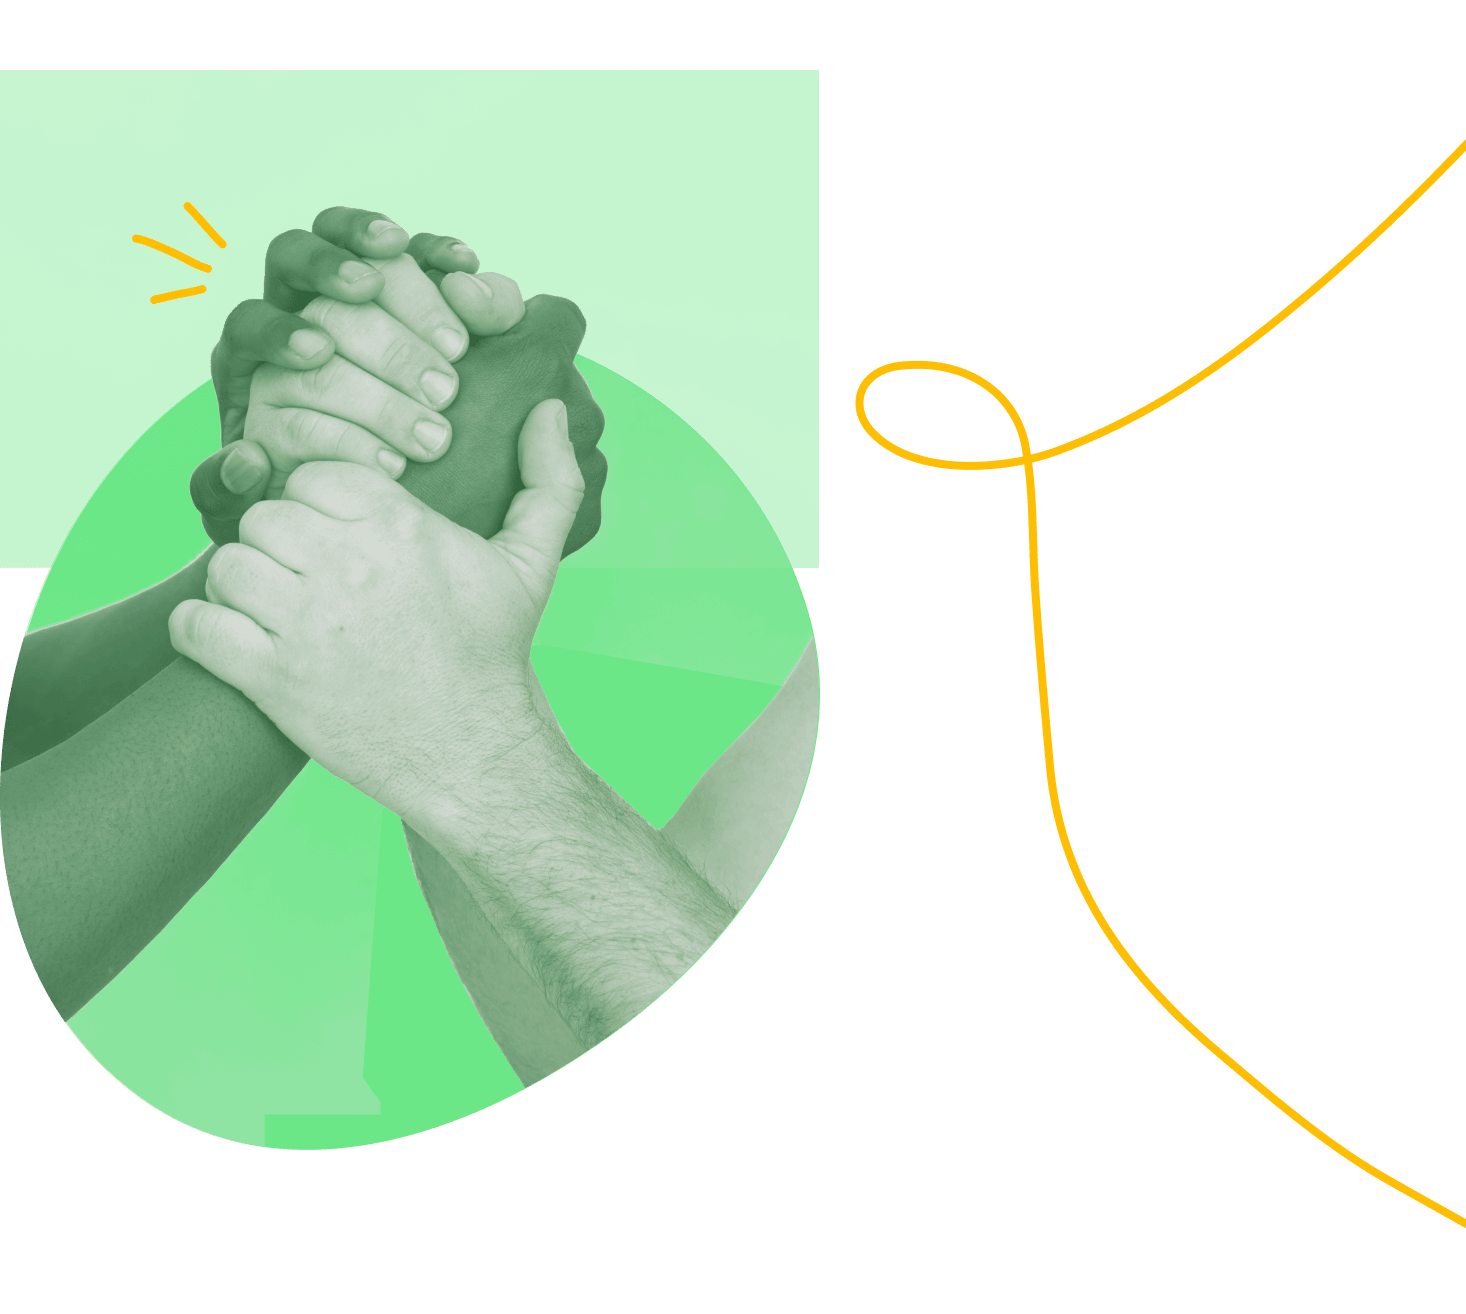
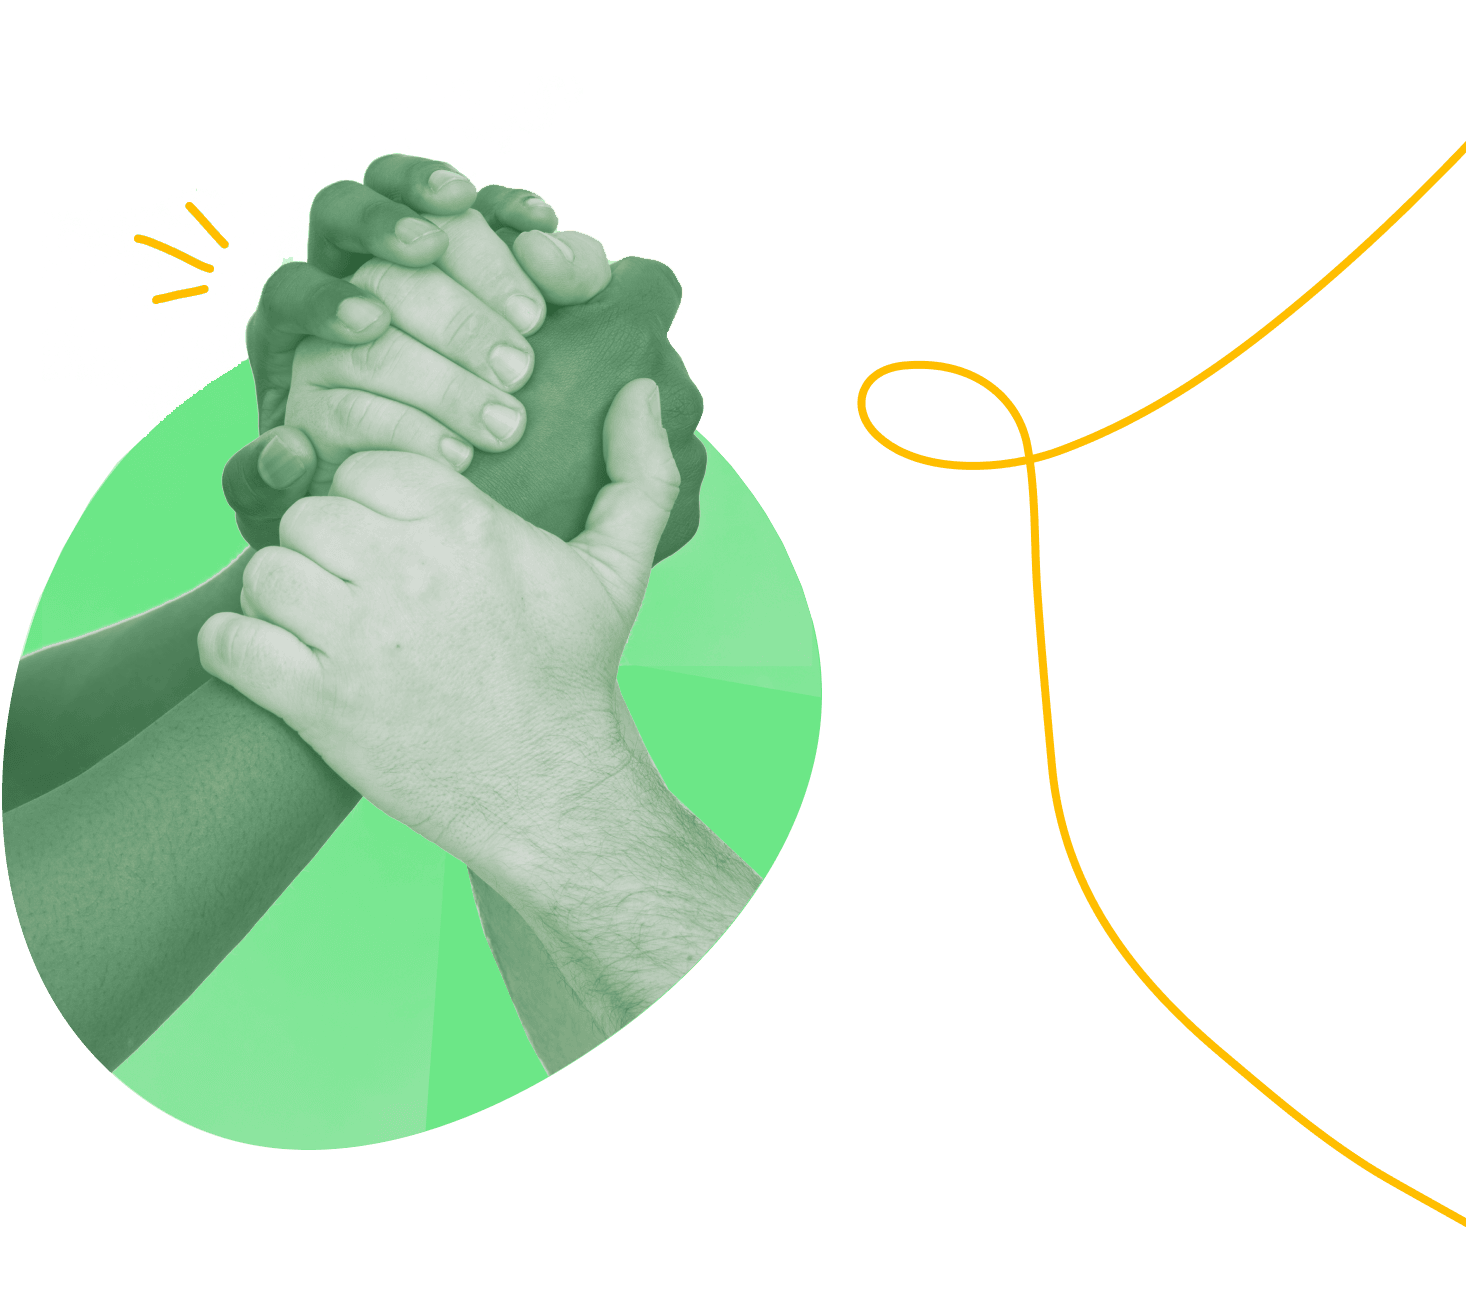
Decent work hero and sections structure

diff --git a/frontend/src/components/decentwork/hero/index.tsx b/frontend/src/components/decentwork/hero/index.tsx
@@ -1,0 +1,101 @@
+import {
+  Box,
+  Button,
+  Center,
+  Flex,
+  Heading,
+  Image,
+  Wrap,
+  WrapItem,
+} from "@chakra-ui/react";
+import Section from "src/components/Section";
+import Container from "src/components/Container";
+import { t } from "src/utils/i18n";
+import React from "react";
+import { SectionButton } from "./SectionButton";
+
+const DWHero: React.FC = () => {
+  return (
+    <Section id="dw-hero" minH="100vh" bgColor="gray.700" overflow="hidden">
+      <Container minH="100vh" px={{ base: "0", lg: "inital" }}>
+        <Flex
+          position="relative"
+          minH="100vh"
+          w="100%"
+          justifyContent="space-between"
+          alignItems="center"
+          py={{ base: "12", lg: "0" }}
+        >
+          <Flex
+            maxW={{ base: "100%", lg: "640px" }}
+            flexDir="column"
+            minH={{ base: "84vh", lg: "auto" }}
+            justifyContent={{ base: "space-between", lg: "flex-start" }}
+            color="white"
+            px={{ base: "4", lg: "0" }}
+            zIndex="100"
+          >
+            <Box>
+              <Heading
+                as="h1"
+                fontSize={{ base: "4xl", md: "6xl", lg: "6xl" }}
+                fontWeight="700"
+              >
+                AppJusto na luta pelo trabalho decente
+              </Heading>
+              <Heading
+                mt={{ base: "4", lg: "8" }}
+                as="h2"
+                maxW="648px"
+                fontSize="xl"
+                lineHeight="1.62rem"
+                fontWeight="500"
+              >
+                O AppJusto, como forma de aprimorar seu combate à precarização
+                do trabalho pelas plataformas, está trabalhando na luta pelo
+                trabalho decente. Elencamos as ações que estamos fazendo e que
+                ainda iremos fazer baseada nos seguintes critérios:
+              </Heading>
+            </Box>
+            <Wrap
+              mt={{ base: "0", md: "6" }}
+              spacing="12px"
+              justify={{ base: "center", lg: "start" }}
+            >
+              <SectionButton to="dw-section1" label={t("Remuneração")} />
+              <SectionButton to="dw-section2" label={t("Condições")} />
+              <SectionButton to="dw-section3" label={t("Contratos")} />
+              <SectionButton to="dw-section4" label={t("Gestão")} />
+              <SectionButton
+                to="dw-section5"
+                label={t("Representações justas")}
+              />
+            </Wrap>
+          </Flex>
+          <Center
+            position={{ base: "absolute", lg: "initial" }}
+            top={{ base: "38%", md: "30%" }}
+            w="100%"
+            maxW={{ lg: "580px" }}
+            overflow="hidden"
+            zIndex="1"
+          >
+            <Box
+              ml={{ base: "-12", md: "-6" }}
+              maxW="580px"
+              minW={{ base: "480px", md: "0" }}
+            >
+              <Image
+                src="/dw/dw-hero.png"
+                alt="mão erguida com punho fechado"
+                objectFit="cover"
+              />
+            </Box>
+          </Center>
+        </Flex>
+      </Container>
+    </Section>
+  );
+};
+
+export default DWHero;

diff --git a/frontend/src/pages/trabalho-decente.tsx b/frontend/src/pages/trabalho-decente.tsx
@@ -1,9 +1,21 @@
 import PageLayout from "../components/PageLayout";
 import Head from "next/head";
 import Seo from "../components/Seo";
-import { Box, Flex, Heading, Image } from "@chakra-ui/react";
+import {
+  Box,
+  Button,
+  Flex,
+  Heading,
+  Image,
+  Wrap,
+  WrapItem,
+} from "@chakra-ui/react";
+import { Link as ScrollLink } from "react-scroll";
 import Section from "src/components/Section";
 import Container from "src/components/Container";
+import { t } from "src/utils/i18n";
+import DWHero from "src/components/decentwork/hero";
+import Section1 from "src/components/decentwork/section1";
 
 export default function DecentWorkPage() {
   return (
@@ -16,48 +28,8 @@ export default function DecentWorkPage() {
         />
       </Head>
       <PageLayout pageName="Trabalho decente">
-        <Section id="hero" overflow="hidden">
-          <Container maxW="1040px">
-            <Flex
-              mt={{ base: "60px", md: "200px", lg: "120px" }}
-              justifyContent="space-between"
-            >
-              <Box maxW={{ base: "100%", md: "600px", lg: "740px" }}>
-                <Heading
-                  as="h1"
-                  maxW={{ base: "311px", md: "480px", lg: "648px" }}
-                  fontSize={{ base: "4xl", md: "5xl", lg: "6xl" }}
-                  fontWeight="700"
-                  lineHeight={{ base: "2.6rem", md: "3.5rem", lg: "4.75rem" }}
-                >
-                  AppJusto na luta pelo trabalho decente
-                </Heading>
-                <Heading
-                  mt="8"
-                  as="h2"
-                  maxW="648px"
-                  fontSize="xl"
-                  lineHeight="1.62rem"
-                  fontWeight="500"
-                >
-                  O AppJusto, como forma de aprimorar seu combate à precarização
-                  do trabalho pelas plataformas, está trabalhando na luta pelo
-                  trabalho decente. Elencamos as ações que estamos fazendo e que
-                  ainda iremos fazer baseada nos seguintes critérios:
-                  remuneração, contratos, gestão, condições e representações
-                  justas.
-                </Heading>
-              </Box>
-              <Box pl="8">
-                <Image
-                  src="/app_courier.jpg"
-                  alt="tela do app de entregadores"
-                  width="320px"
-                />
-              </Box>
-            </Flex>
-          </Container>
-        </Section>
+        <DWHero />
+        <Section1 />
       </PageLayout>
     </>
   );

diff --git a/frontend/src/components/decentwork/section1/index.tsx b/frontend/src/components/decentwork/section1/index.tsx
@@ -1,0 +1,43 @@
+import {
+  Box,
+  Button,
+  Flex,
+  Heading,
+  Image,
+  Text,
+  Wrap,
+  WrapItem,
+} from "@chakra-ui/react";
+import Section from "src/components/Section";
+import Container from "src/components/Container";
+import React from "react";
+import { SectionHeader } from "../SectionHeader";
+import { SectionTopic } from "../SectionTopic";
+
+const Section1: React.FC = () => {
+  return (
+    <Section id="dw-section1" minH="100vh">
+      <Container h="100vh">
+        <SectionHeader
+          sectionNumber={1}
+          title="Remuneração"
+          description={
+            <Text>
+              Garantia que o trabalhador tenha pelo menos{" "}
+              <strong>um salário digno</strong> (salário mínimo com base na
+              região) descontados os custos/gastos para trabalhar.
+            </Text>
+          }
+        />
+        <Flex justifyContent="space-between" alignItems="flex-end">
+          <SectionTopic section="REMUNERAÇÃO" topic="Principais indicadores " />
+          <Text fontSize="lg" fontWeight="500">
+            Atualizado: 16/06/2023
+          </Text>
+        </Flex>
+      </Container>
+    </Section>
+  );
+};
+
+export default Section1;

diff --git a/frontend/src/components/decentwork/SectionHeader.tsx b/frontend/src/components/decentwork/SectionHeader.tsx
@@ -1,0 +1,37 @@
+import { Box, Flex, Heading, Image } from "@chakra-ui/react";
+import React from "react";
+
+interface SectionHeaderProps {
+  sectionNumber: number;
+  title: string;
+  description: React.ReactNode;
+}
+
+export const SectionHeader: React.FC<SectionHeaderProps> = ({
+  sectionNumber,
+  title,
+  description,
+}) => {
+  return (
+    <Flex
+      w="full"
+      py="12"
+      flexDir="row"
+      justifyContent="center"
+      alignItems="center"
+    >
+      <Box maxW="552">
+        <Image
+          src={`/dw/dw-section${1}.png`}
+          alt={`section ${sectionNumber}`}
+        />
+      </Box>
+      <Box ml="6" maxW="420">
+        <Heading as="h3" fontSize="5xl" lineHeight="5.4rem">
+          {title}
+        </Heading>
+        {description}
+      </Box>
+    </Flex>
+  );
+};

diff --git a/frontend/src/components/decentwork/hero/SectionButton.tsx b/frontend/src/components/decentwork/hero/SectionButton.tsx
@@ -1,0 +1,29 @@
+import { Button, WrapItem } from "@chakra-ui/react";
+import { Link as ScrollLink } from "react-scroll";
+import React from "react";
+
+interface SectionButtonProps {
+  to: string;
+  label: string;
+}
+
+export const SectionButton: React.FC<SectionButtonProps> = ({ to, label }) => {
+  return (
+    <WrapItem>
+      <ScrollLink
+        activeClass="active"
+        to={to}
+        spy={true}
+        smooth={true}
+        offset={-70}
+        duration={500}
+        name="scroll to top"
+        href="/"
+      >
+        <Button variant="white" fontWeight="500" minW="135px">
+          {label}
+        </Button>
+      </ScrollLink>
+    </WrapItem>
+  );
+};

diff --git a/frontend/src/components/decentwork/SectionTopic.tsx b/frontend/src/components/decentwork/SectionTopic.tsx
@@ -1,0 +1,26 @@
+import { Box, Flex, Heading, Image, Text } from "@chakra-ui/react";
+import React from "react";
+
+interface SectionTopicProps {
+  section: string;
+  topic: string;
+}
+
+export const SectionTopic: React.FC<SectionTopicProps> = ({
+  section,
+  topic,
+}) => {
+  return (
+    <Box ml="6" maxW="420">
+      <Flex flexDir="row">
+        <Box w="4px" h="17px" bgColor="primary" borderRadius="lg" mr="2" />
+        <Text fontSize="sm" lineHeight="1rem">
+          {section}
+        </Text>
+      </Flex>
+      <Text fontSize="3xl" lineHeight="3rem">
+        {topic}
+      </Text>
+    </Box>
+  );
+};

diff --git a/frontend/src/styles/button.ts b/frontend/src/styles/button.ts
@@ -31,6 +31,13 @@ export default {
       color: "black",
       _hover: { bg: "tertiaryLight" },
     },
+    white: {
+      border: "1px solid #2F422C",
+      color: "#2F422C",
+      bg: "white",
+      h: "48px",
+      _hover: { opacity: 0.8 },
+    },
     outlineWhite: {
       border: "1px solid white",
       color: "white",

diff --git a/frontend/src/pages/index.tsx b/frontend/src/pages/index.tsx
@@ -32,8 +32,8 @@ export default function Home() {
         <MainVideo />
         <Commitment />
         <Better />
-        <DecentWork />
         <Testimonials />
+        <DecentWork />
         <Crowdfunding />
         <Media />
         <Support />
